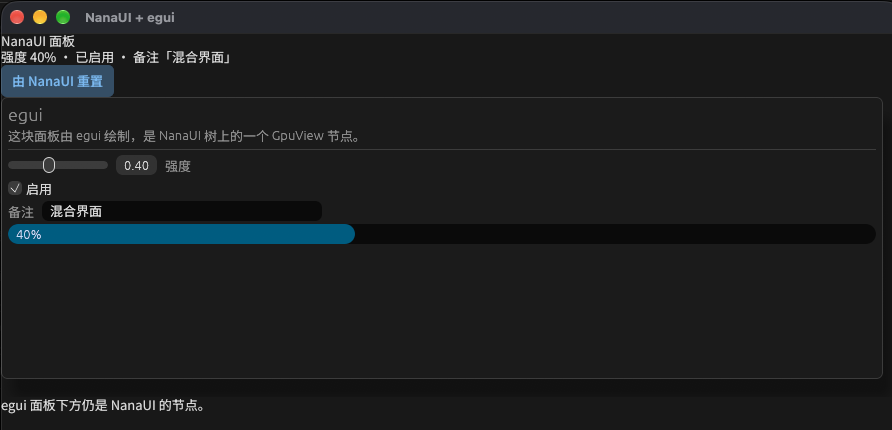
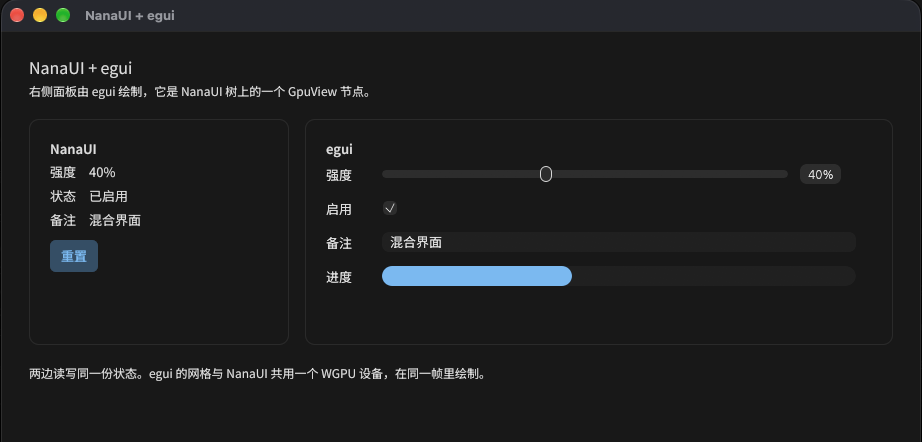
examples: 重做 egui-in-nanaui 的界面
页面加内边距、标题与说明；NanaUI 控件与 egui 各放一张并排、顶部对齐的卡片，左侧读数拆成三行。egui 不再画自己的窗口框，控件排成两列网格，配色、悬停与选中态、圆角取自 NanaUI 暗色主题调色板；滑块数值显示为百分比，进度条去掉看不清的百分比字。窗口改为 920×410，README 截图随之更新。

diff --git a/crates/nana-ui/examples/egui-in-nanaui.rs b/crates/nana-ui/examples/egui-in-nanaui.rs
@@ -14,14 +14,15 @@ use std::time::Instant;
 
 use nana_ui::runtime::view::{entity_ref, widget, with_refs};
 use nana_ui::runtime::{
-    Activate, Button, DocumentId, Entity, FrameworkError, GPU_VIEW_RENDERER, GpuView, GpuViewMode,
-    LengthSpec, List, NodeStyle, RuntimeDocument, Text,
+    Activate, AlignSpec, Button, Card, DocumentId, Entity, FrameworkError, GPU_VIEW_RENDERER,
+    GpuView, GpuViewMode, LengthSpec, NodeStyle, RuntimeDocument, Stack, Text,
 };
 use nana_ui::{
-    ButtonKind, RoutedInput, RuntimeProgram, RuntimeProgramContext, RuntimeProgramUpdate,
+    ButtonKind, CardKind, RoutedInput, RuntimeProgram, RuntimeProgramContext, RuntimeProgramUpdate,
     SceneGpuNode, SceneGpuPrepareContext, SceneGpuRenderContext, SceneGpuRenderer,
     SceneGpuRendererRegistry, ThemeAppearance, WindowDescriptor, WindowHandle, run_runtime,
 };
+use nana_ui_core::TypeRole;
 use nana_ui_platform::{InputPayload, PointerPhase, WheelUnit, WindowEvent, WindowId};
 
 /// What both toolkits look at.
@@ -59,25 +60,42 @@ impl std::fmt::Debug for EguiNode {
 }
 
 impl EguiNode {
+    /// egui's controls, inset inside the node NanaUI laid out. The card
+    /// around them is NanaUI's, so egui draws no frame of its own.
     fn ui(ctx: &egui::Context, bounds: egui::Rect, shared: &mut Shared) {
         egui::Area::new(egui::Id::unique("nana-egui"))
             .fixed_pos(bounds.min)
             .show(ctx, |ui| {
                 ui.set_clip_rect(bounds);
-                egui::Frame::window(ui.style()).show(ui, |ui| {
-                    ui.set_width(bounds.width() - 32.0);
-                    ui.set_min_height(bounds.height() - 32.0);
-                    ui.heading("egui");
-                    ui.label("这块面板由 egui 绘制，是 NanaUI 树上的一个 GpuView 节点。");
-                    ui.separator();
-                    ui.add(egui::Slider::new(&mut shared.strength, 0.0..=1.0).text("强度"));
-                    ui.checkbox(&mut shared.enabled, "启用");
-                    ui.horizontal(|ui| {
+                ui.set_width(bounds.width());
+                ui.spacing_mut().item_spacing = egui::vec2(12.0, 14.0);
+                ui.spacing_mut().slider_width = (bounds.width() - 140.0).max(120.0);
+                egui::Grid::new(egui::Id::unique("nana-egui-grid"))
+                    .num_columns(2)
+                    .spacing([16.0, 14.0])
+                    .show(ui, |ui| {
+                        ui.label("强度");
+                        ui.add(
+                            egui::Slider::new(&mut shared.strength, 0.0..=1.0)
+                                .custom_formatter(|v, _| format!("{:.0}%", v * 100.0)),
+                        );
+                        ui.end_row();
+                        ui.label("启用");
+                        ui.checkbox(&mut shared.enabled, "");
+                        ui.end_row();
                         ui.label("备注");
-                        ui.text_edit_singleline(&mut shared.note);
+                        ui.add(
+                            egui::TextEdit::singleline(&mut shared.note)
+                                .desired_width(bounds.width() - 72.0),
+                        );
+                        ui.end_row();
+                        ui.label("进度");
+                        ui.add(
+                            egui::ProgressBar::new(shared.strength)
+                                .desired_width(bounds.width() - 72.0),
+                        );
+                        ui.end_row();
                     });
-                    ui.add(egui::ProgressBar::new(shared.strength).show_percentage());
-                });
             });
     }
 }
@@ -205,36 +223,115 @@ fn egui_context() -> egui::Context {
             .push("noto-sans-sc".to_owned());
     }
     ctx.set_fonts(fonts);
+    ctx.set_visuals(nana_visuals(ThemeAppearance::Dark));
     ctx
 }
 
-/// The egui node fills the row and is 300 logical pixels tall.
+fn color(c: nana_ui::SemanticColor) -> egui::Color32 {
+    let byte = |v: f32| (v.clamp(0.0, 1.0) * 255.0).round() as u8;
+    egui::Color32::from_rgba_unmultiplied(byte(c.r), byte(c.g), byte(c.b), byte(c.a))
+}
+
+/// egui visuals taken from NanaUI's theme palette, so both halves of the
+/// window read as one interface.
+fn nana_visuals(theme: ThemeAppearance) -> egui::Visuals {
+    let palette = theme.palette();
+    let mut visuals = if theme == ThemeAppearance::Dark {
+        egui::Visuals::dark()
+    } else {
+        egui::Visuals::light()
+    };
+    let radius = egui::CornerRadius::same(6);
+    visuals.override_text_color = Some(color(palette.text));
+    visuals.panel_fill = egui::Color32::TRANSPARENT;
+    visuals.window_fill = color(palette.surface);
+    // Text fields and slider rails sit on the raised tone, like NanaUI inputs.
+    visuals.extreme_bg_color = color(palette.raised);
+    visuals.selection.bg_fill = color(palette.accent);
+    visuals.selection.stroke.color = color(palette.accent_strong);
+    visuals.hyperlink_color = color(palette.accent);
+    for (widget, fill, stroke) in [
+        (
+            &mut visuals.widgets.noninteractive,
+            palette.surface,
+            palette.border_soft,
+        ),
+        (&mut visuals.widgets.inactive, palette.hover, palette.border),
+        (
+            &mut visuals.widgets.hovered,
+            palette.active,
+            palette.border_strong,
+        ),
+        (
+            &mut visuals.widgets.active,
+            palette.accent_soft,
+            palette.accent,
+        ),
+        (
+            &mut visuals.widgets.open,
+            palette.active,
+            palette.border_strong,
+        ),
+    ] {
+        widget.bg_fill = color(fill);
+        widget.weak_bg_fill = color(fill);
+        widget.bg_stroke.color = color(stroke);
+        widget.corner_radius = radius;
+    }
+    visuals
+}
+
+/// The egui node fills the width of its card.
 fn egui_node_style() -> NodeStyle {
     let mut style = NodeStyle::default();
     let layout = Arc::make_mut(&mut style.layout);
     layout.width = Some(LengthSpec::Fill);
-    layout.height = Some(LengthSpec::Px(300.0));
+    layout.height = Some(LengthSpec::Px(160.0));
     style
+}
+
+/// A card that takes the remaining width of the row.
+fn grow(mut card: Card) -> Card {
+    let layout = Arc::make_mut(&mut card.style.layout);
+    layout.width = Some(LengthSpec::Fill);
+    layout.min_width = Some(LengthSpec::Px(0.0));
+    layout.flex_grow = Some(1.0);
+    layout.flex_shrink = Some(1.0);
+    layout.allow_shrink = true;
+    card
+}
+
+/// A card of a fixed width.
+fn fixed(mut card: Card, width: f32) -> Card {
+    Arc::make_mut(&mut card.style.layout).width = Some(LengthSpec::Px(width));
+    card
 }
 
 struct Demo {
     document: RuntimeDocument,
     egui: EguiNode,
-    readout: Entity<Text>,
+    readout: [Entity<Text>; 3],
     view: Entity<GpuView>,
 }
 
-fn readout(shared: &Shared) -> String {
-    format!(
-        "强度 {:.0}% · {} · 备注「{}」",
-        shared.strength * 100.0,
-        if shared.enabled {
-            "已启用"
-        } else {
-            "未启用"
-        },
-        shared.note
-    )
+fn readout(shared: &Shared) -> [String; 3] {
+    let note = if shared.note.is_empty() {
+        "（空）"
+    } else {
+        shared.note.as_str()
+    };
+    [
+        format!("强度　{:.0}%", shared.strength * 100.0),
+        format!(
+            "状态　{}",
+            if shared.enabled {
+                "已启用"
+            } else {
+                "未启用"
+            }
+        ),
+        format!("备注　{note}"),
+    ]
 }
 
 impl RuntimeProgram for Demo {
@@ -268,28 +365,65 @@ impl RuntimeProgram for Demo {
         let (_, (readout_text, view)) = document
             .context_mut()
             .mount_view_root(document_id, || {
-                let readout_text = entity_ref::<Text>();
+                let readout_text = [entity_ref::<Text>(), entity_ref::<Text>(), entity_ref::<Text>()];
                 let view = entity_ref::<GpuView>();
                 let reset_shared = Arc::clone(&shared);
-                let root = widget(List::new().label("NanaUI + egui")).children((
-                    widget(Text::new("NanaUI 面板")),
-                    widget(Text::new(initial)).entity_ref(readout_text),
-                    widget(Button::new("由 NanaUI 重置").kind(ButtonKind::Primary)).on_cx(
-                        move |_button, _event: &Activate, cx| {
-                            let mut shared = reset_shared.lock().unwrap();
-                            shared.strength = 0.0;
-                            shared.enabled = false;
-                            shared.note.clear();
-                            cx.dispatch_program(());
-                        },
-                    ),
+                let root = widget(Stack::column(20.0).padding(28.0)).children((
+                    widget(Stack::column(6.0)).children((
+                        widget(Text::new("NanaUI + egui").typography(TypeRole::Heading)),
+                        widget(
+                            Text::new(
+                                "右侧面板由 egui 绘制，它是 NanaUI 树上的一个 GpuView 节点。",
+                            )
+                            .typography(TypeRole::Meta),
+                        ),
+                    )),
+                    widget(Stack::row(16.0).with_layout(|layout| {
+                        layout.width = Some(LengthSpec::Fill);
+                        layout.align_items = AlignSpec::Stretch;
+                    }))
+                    .children((
+                        widget(fixed(
+                            Card::new().title("NanaUI").kind(CardKind::Outlined).padding(20.0),
+                            260.0,
+                        ))
+                        .children((
+                            widget(Stack::column(8.0).with_layout(|layout| {
+                                layout.padding_bottom = Some(LengthSpec::Px(12.0));
+                            }))
+                            .children((
+                                widget(Text::new(initial[0].clone())).entity_ref(readout_text[0]),
+                                widget(Text::new(initial[1].clone())).entity_ref(readout_text[1]),
+                                widget(Text::new(initial[2].clone())).entity_ref(readout_text[2]),
+                            )),
+                            widget(Button::new("重置").kind(ButtonKind::Primary)).on_cx(
+                                move |_button, _event: &Activate, cx| {
+                                    let mut shared = reset_shared.lock().unwrap();
+                                    shared.strength = 0.0;
+                                    shared.enabled = false;
+                                    shared.note.clear();
+                                    cx.dispatch_program(());
+                                },
+                            ),
+                        )),
+                        widget(grow(
+                            Card::new().title("egui").kind(CardKind::Outlined).padding(20.0),
+                        ))
+                        .children(
+                            widget(
+                                GpuView::new(EGUI_SLOT)
+                                    .mode(GpuViewMode::Standalone)
+                                    .style(egui_node_style()),
+                            )
+                            .entity_ref(view),
+                        ),
+                    )),
                     widget(
-                        GpuView::new(EGUI_SLOT)
-                            .mode(GpuViewMode::Standalone)
-                            .style(egui_node_style()),
-                    )
-                    .entity_ref(view),
-                    widget(Text::new("egui 面板下方仍是 NanaUI 的节点。")),
+                        Text::new(
+                            "两边读写同一份状态。egui 的网格与 NanaUI 共用一个 WGPU 设备，在同一帧里绘制。",
+                        )
+                        .typography(TypeRole::Meta),
+                    ),
                 ));
                 with_refs(root, (readout_text, view))
             })
@@ -426,15 +560,17 @@ impl Demo {
     /// Show what egui changed in a NanaUI label, and tell the egui node its
     /// content changed when NanaUI changed the value.
     fn sync(&mut self) {
-        let text = readout(&self.egui.shared.lock().unwrap());
-        let _ = self
-            .document
-            .context_mut()
-            .update_component(self.readout, |label, _| {
-                if label.value != text {
-                    label.value = text;
-                }
-            });
+        let lines = readout(&self.egui.shared.lock().unwrap());
+        for (entity, text) in self.readout.into_iter().zip(lines) {
+            let _ = self
+                .document
+                .context_mut()
+                .update_component(entity, |label, _| {
+                    if label.value != text {
+                        label.value = text;
+                    }
+                });
+        }
         let _ = self
             .document
             .context_mut()
@@ -447,7 +583,7 @@ impl Demo {
 fn main() -> Result<(), nana_ui::HostedRunError> {
     run_runtime::<Demo>(
         WindowDescriptor::new("NanaUI + egui")
-            .initial_size(900.0, 640.0)
+            .initial_size(920.0, 410.0)
             .system_caption(true),
     )
 }
